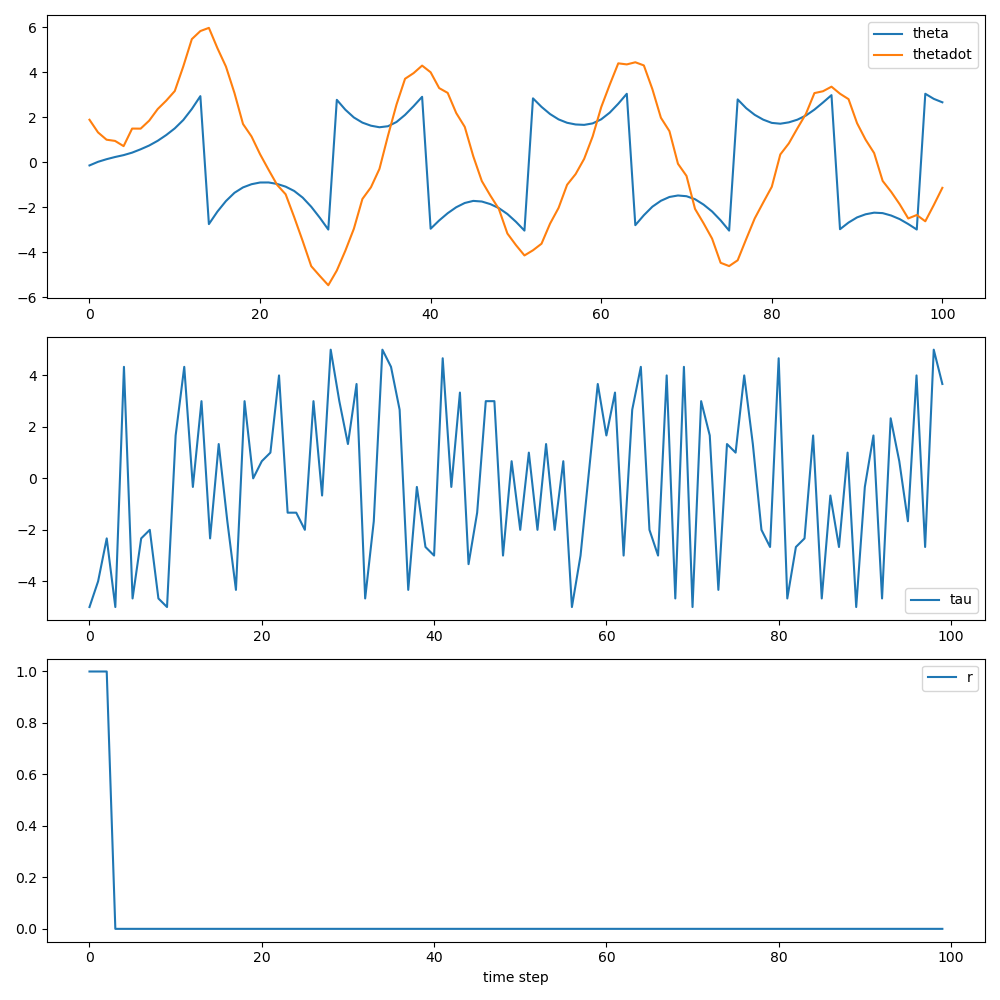
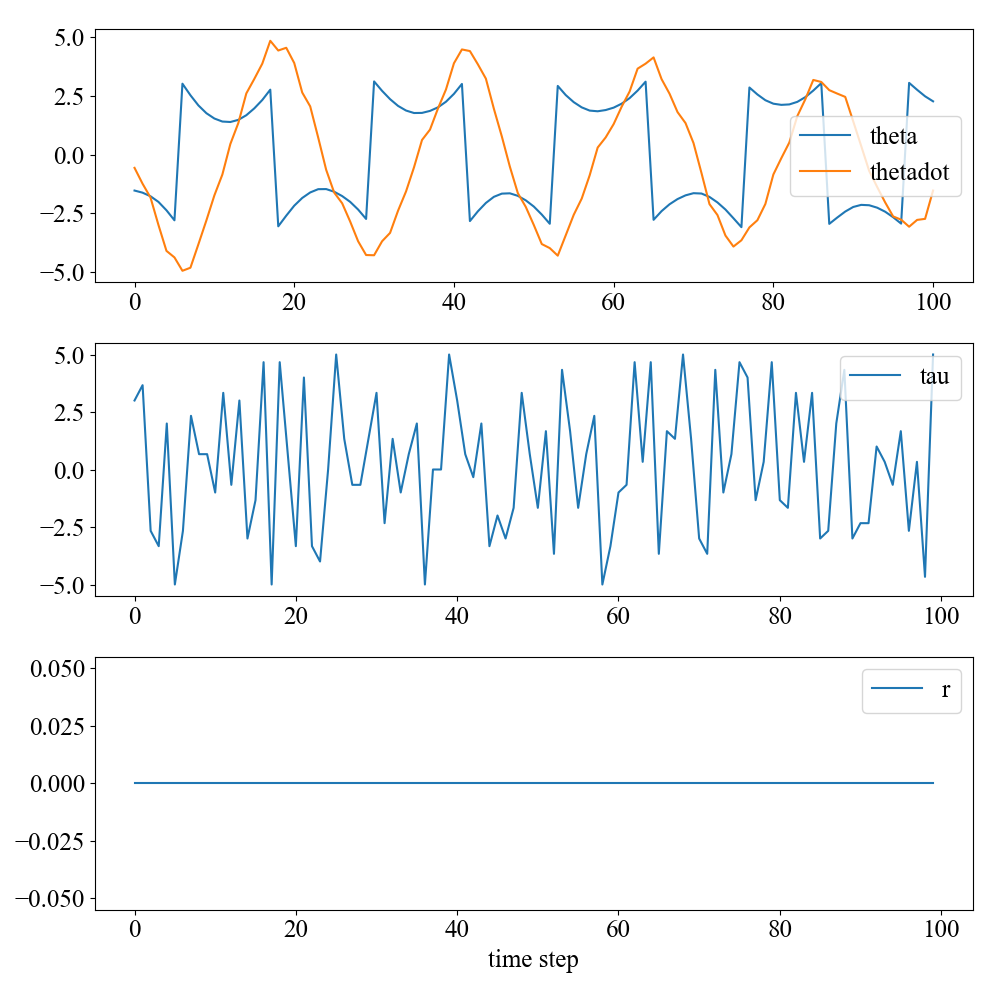
feat: state value and policy plotter added

diff --git a/train_discreteaction_pendulum.py b/train_discreteaction_pendulum.py
@@ -5,19 +5,14 @@
 # EPS_DECAY controls the rate of exponential decay of epsilon, higher means a slower decay
 # TAU is the update rate of the target network
 # LR is the learning rate of the AdamW optimizer
-import math
-import random
-from itertools import count
 
 from matplotlib import pyplot as plt
-import torch
-import torch.nn as nn
-import torch.optim as optim
+
 
 from discreteaction_pendulum import Pendulum
 from dqn.dqn import DQN
-from dqn.replay import ReplayMemory, Transition
-from dqn.utils import generate_trajectory
+from dqn.train import train
+from dqn.plot import generate_trajectory, plot_policy_value
 
 
 BATCH_SIZE = 128
@@ -28,149 +23,37 @@ EPS_DECAY = 1000
 TAU = 0.005
 LR = 1e-4
 
-env = Pendulum()
-device = torch.device("cuda" if torch.cuda.is_available() else "cpu")
-# Get number of actions from gym action space
-n_actions = env.num_actions
-# Get the number of state observations
-state = env.reset()
-n_observations = len(state)
+num_episodes = 5
+memory_buffer_size: int = 10000
 
-policy_net = DQN(n_observations, n_actions).to(device)
-target_net = DQN(n_observations, n_actions).to(device)
-target_net.load_state_dict(policy_net.state_dict())
-
-optimizer = optim.AdamW(policy_net.parameters(), lr=LR, amsgrad=True)
-memory = ReplayMemory(10000)
-
-
-steps_done = 0
-
-
-def select_action(state) -> torch.Tensor:
-    global steps_done
-    sample = random.random()
-    eps_threshold = EPS_END + (EPS_START - EPS_END) * math.exp(
-        -1.0 * steps_done / EPS_DECAY
-    )
-    steps_done += 1
-    if sample > eps_threshold:
-        with torch.no_grad():
-            # t.max(1) will return the largest column value of each row.
-            # second column on max result is index of where max element was
-            # found, so we pick action with the larger expected reward.
-            return policy_net(state).max(1)[1].view(1, 1)
-    else:
-        return torch.tensor(
-            [[random.choice(list(range(env.num_actions)))]],
-            device=device,
-            dtype=torch.long,
-        )
-
-
-episode_durations = []
-
-
-def optimize_model():
-    if len(memory) < BATCH_SIZE:
-        return
-    transitions = memory.sample(BATCH_SIZE)
-    # Transpose the batch (see https://stackoverflow.com/a/19343/3343043 for
-    # detailed explanation). This converts batch-array of Transitions
-    # to Transition of batch-arrays.
-    batch = Transition(*zip(*transitions))
-
-    # Compute a mask of non-final states and concatenate the batch elements
-    # (a final state would've been the one after which simulation ended)
-    non_final_mask = torch.tensor(
-        tuple(map(lambda s: s is not None, batch.next_state)),
-        device=device,
-        dtype=torch.bool,
-    )
-    non_final_next_states = torch.cat([s for s in batch.next_state if s is not None])
-    state_batch = torch.cat(batch.state)
-    action_batch = torch.cat(batch.action)
-    reward_batch = torch.cat(batch.reward)
-
-    # Compute Q(s_t, a) - the model computes Q(s_t), then we select the
-    # columns of actions taken. These are the actions which would've been taken
-    # for each batch state according to policy_net
-    state_action_values = policy_net(state_batch).gather(1, action_batch)
-
-    # Compute V(s_{t+1}) for all next states.
-    # Expected values of actions for non_final_next_states are computed based
-    # on the "older" target_net; selecting their best reward with max(1)[0].
-    # This is merged based on the mask, such that we'll have either the expected
-    # state value or 0 in case the state was final.
-    next_state_values = torch.zeros(BATCH_SIZE, device=device)
-    with torch.no_grad():
-        next_state_values[non_final_mask] = target_net(non_final_next_states).max(1)[0]
-    # Compute the expected Q values
-    expected_state_action_values = (next_state_values * GAMMA) + reward_batch
-
-    # Compute Huber loss
-    criterion = nn.SmoothL1Loss()
-    loss: torch.Tensor = criterion(
-        state_action_values, expected_state_action_values.unsqueeze(1)
-    )
-
-    # Optimize the model
-    optimizer.zero_grad()
-    loss.backward()
-    # In-place gradient clipping
-    torch.nn.utils.clip_grad_value_(policy_net.parameters(), 100)
-    optimizer.step()
-
-
-if torch.cuda.is_available():
-    num_episodes = 10
-else:
-    num_episodes = 50
-
-for i_episode in range(num_episodes):
-    # Initialize the environment and get it's state
-    print(f"Episode {i_episode} of {num_episodes}")
-    state = env.reset()
-    state = torch.tensor(state, dtype=torch.float32, device=device).unsqueeze(0)
-    for t in count():
-        action = select_action(state)
-        observation, reward, done = env.step(action.item())
-        reward = torch.tensor([reward], device=device)
-
-        if done:
-            next_state = None
-        else:
-            next_state = torch.tensor(
-                observation, dtype=torch.float32, device=device
-            ).unsqueeze(0)
-
-        if next_state is not None and state.dim() == 1:
-            pass
-        # Store the transition in memory
-        memory.push(Transition(state, action, reward, next_state))
-
-        # Move to the next state
-        state = next_state
-
-        # Perform one step of the optimization (on the policy network)
-        optimize_model()
-
-        # Soft update of the target network's weights
-        # θ′ ← τ θ + (1 −τ )θ′
-        target_net_state_dict = target_net.state_dict()
-        policy_net_state_dict = policy_net.state_dict()
-        for key in policy_net_state_dict:
-            target_net_state_dict[key] = policy_net_state_dict[
-                key
-            ] * TAU + target_net_state_dict[key] * (1 - TAU)
-        target_net.load_state_dict(target_net_state_dict)
-
-        if done:
-            episode_durations.append(t + 1)
-            break
-
-print("Complete")
+model_path: str = "models/dqn_w_rep_w_target.pt"
+learning_curve_path: str = "figures/learning_curve_w_rep_w_target.png"
+policy_plot_path: str = "figures/policy_w_rep_w_target.png"
+value_plot_path: str = "figures/value_w_rep_w_target.png"
 
 traj_filename: str = "figures/traj_w_rep_w_target.png"
 video_filename: str = "figures/video_w_rep_w_target.gif"
-generate_trajectory(env, policy_net, traj_filename, video_filename, device)
+
+plt.rcParams["font.family"] = "Times New Roman"
+plt.rcParams["font.size"] = 18
+plt.rcParams["figure.subplot.bottom"] = 0.15
+
+env = Pendulum()
+
+policy_net: DQN = train(
+    num_episodes,
+    env,
+    memory_buffer_size,
+    GAMMA,
+    EPS_START,
+    EPS_END,
+    EPS_DECAY,
+    BATCH_SIZE,
+    TAU,
+    LR,
+    model_path,
+    learning_curve_path,
+)
+
+plot_policy_value(policy_net, env, policy_plot_path, value_plot_path)
+generate_trajectory(env, policy_net, traj_filename, video_filename)

diff --git a/dqn/train.py b/dqn/train.py
@@ -126,7 +126,7 @@ def train(
     episodic_rewards: list[float] = []
     for i_episode in range(num_episodes):
         # Initialize the environment and get it's state
-        print(f"Episode {i_episode} of {num_episodes}")
+        print(f"Episode {i_episode+1} of {num_episodes}")
         state_np: ndarray = env.reset()
         state: Tensor = torch.tensor(
             state_np, dtype=torch.float32, device=device
